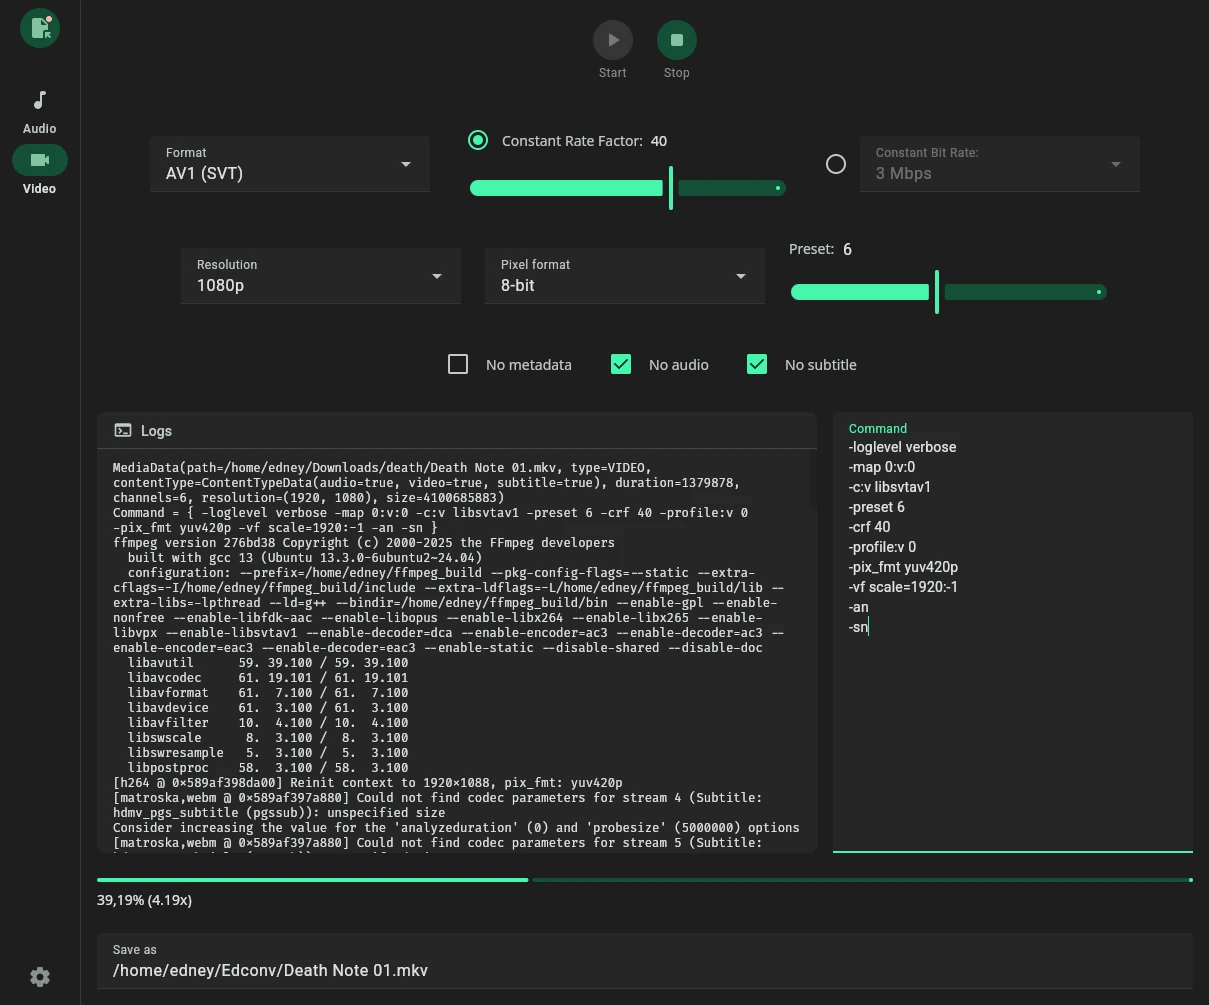
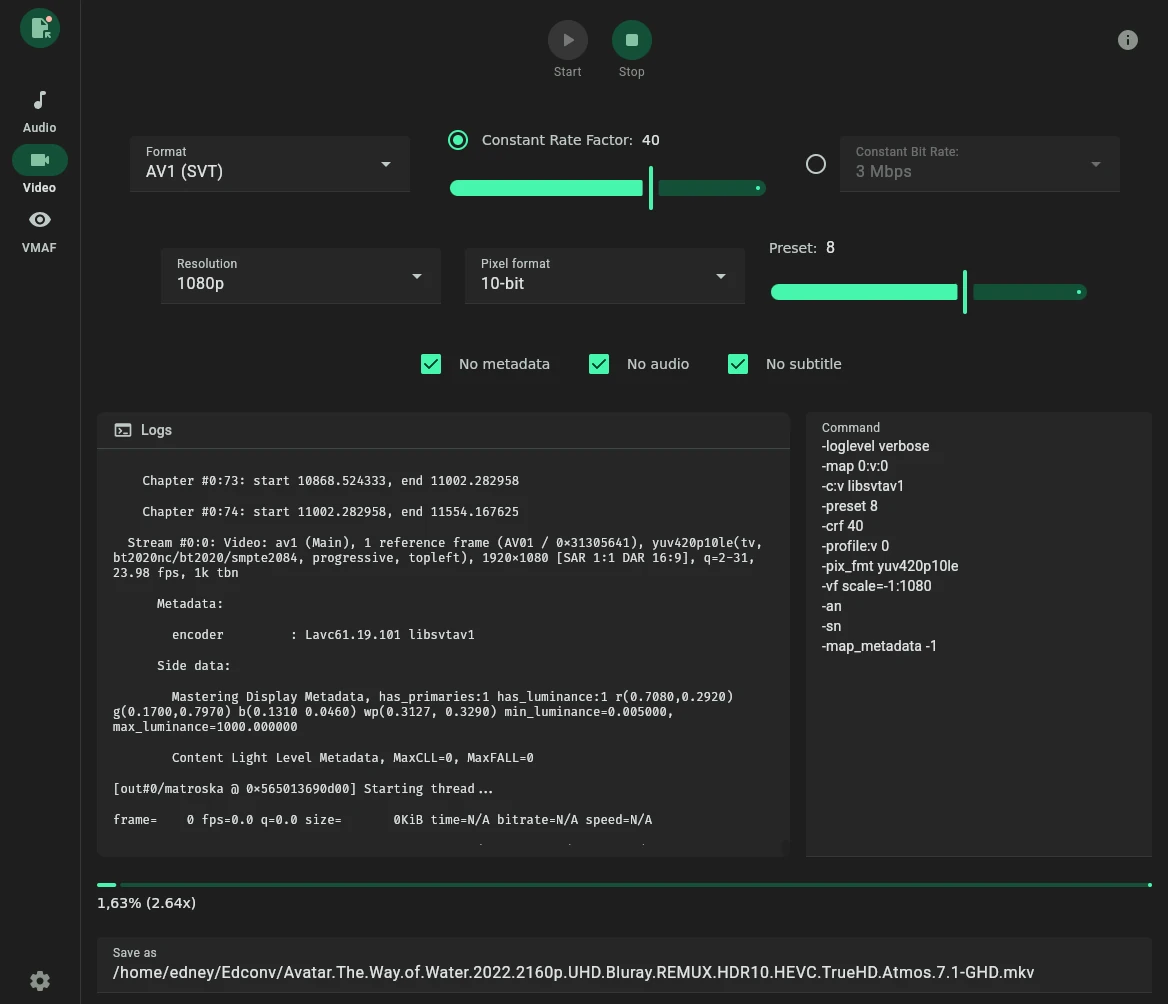
Release 1.2.0

diff --git a/README.md b/README.md
@@ -1,4 +1,4 @@
-![Application Preview](assets/edconv-banner.webp)
+![Application Preview](assets/edconv-banner.png)
 
 <div align="center">
   <h1>Edconv</h1>
@@ -20,9 +20,10 @@ A user-friendly interface that simplifies the power of **FFmpeg**. It's designed
 ## Features ✨
 
 - Convert video and audio using FFmpeg
-- Presets for movies, shows, and music (soon)
 - Custom FFmpeg arguments
 - Clean, intuitive interface
+- VMAF perceptual video quality assessment algorithm
+- Conversion queue (soon)
 
 ## Screenshots
 
